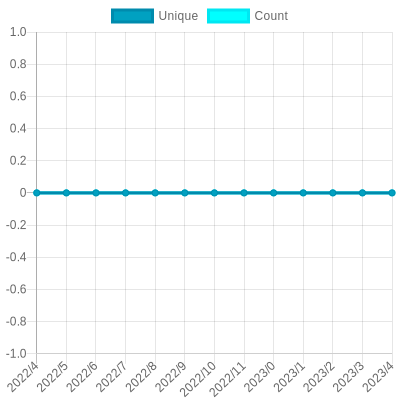
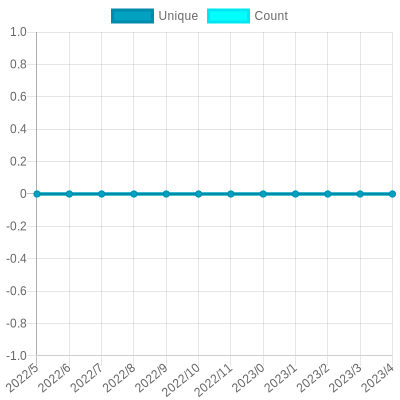
Update views

diff --git a/README.md b/README.md
@@ -26,7 +26,7 @@ The project created and maintained by [gayanvoice](https://github.com/gayanvoice
 			</a>
 		</td>
 		<td>
-			2022/5/29 12:39 AM UTC
+			2022/5/30 12:43 AM UTC
 		</td>
 		<td>
 			0
@@ -37,7 +37,7 @@ The project created and maintained by [gayanvoice](https://github.com/gayanvoice
 	</tr>
 </table>
 
-<small><i>Last updated on 2022/5/31 6:09 PM UTC</i></small>
+<small><i>Last updated on 2022/6/1 12:43 AM UTC</i></small>
 
 ## ✂Copy and 📋 Paste
 ### Total Views Badge

diff --git a/readme/335519859/year.md b/readme/335519859/year.md
@@ -150,21 +150,10 @@
 			<code>0</code>
 		</td>
 	</tr>
-	<tr>
-		<td>
-			<code>2021/5/1</code>
-		</td>
-		<td>
-			<code>0</code>
-		</td>
-		<td>
-			<code>0</code>
-		</td>
-	</tr>
 </table>
 
 </details>
-<small><i>Last updated on 2022/5/31 6:09 PM UTC</i></small>
+<small><i>Last updated on 2022/6/1 12:43 AM UTC</i></small>
 
 ## ✂Copy and 📋 Paste
 ### SVG Badge
